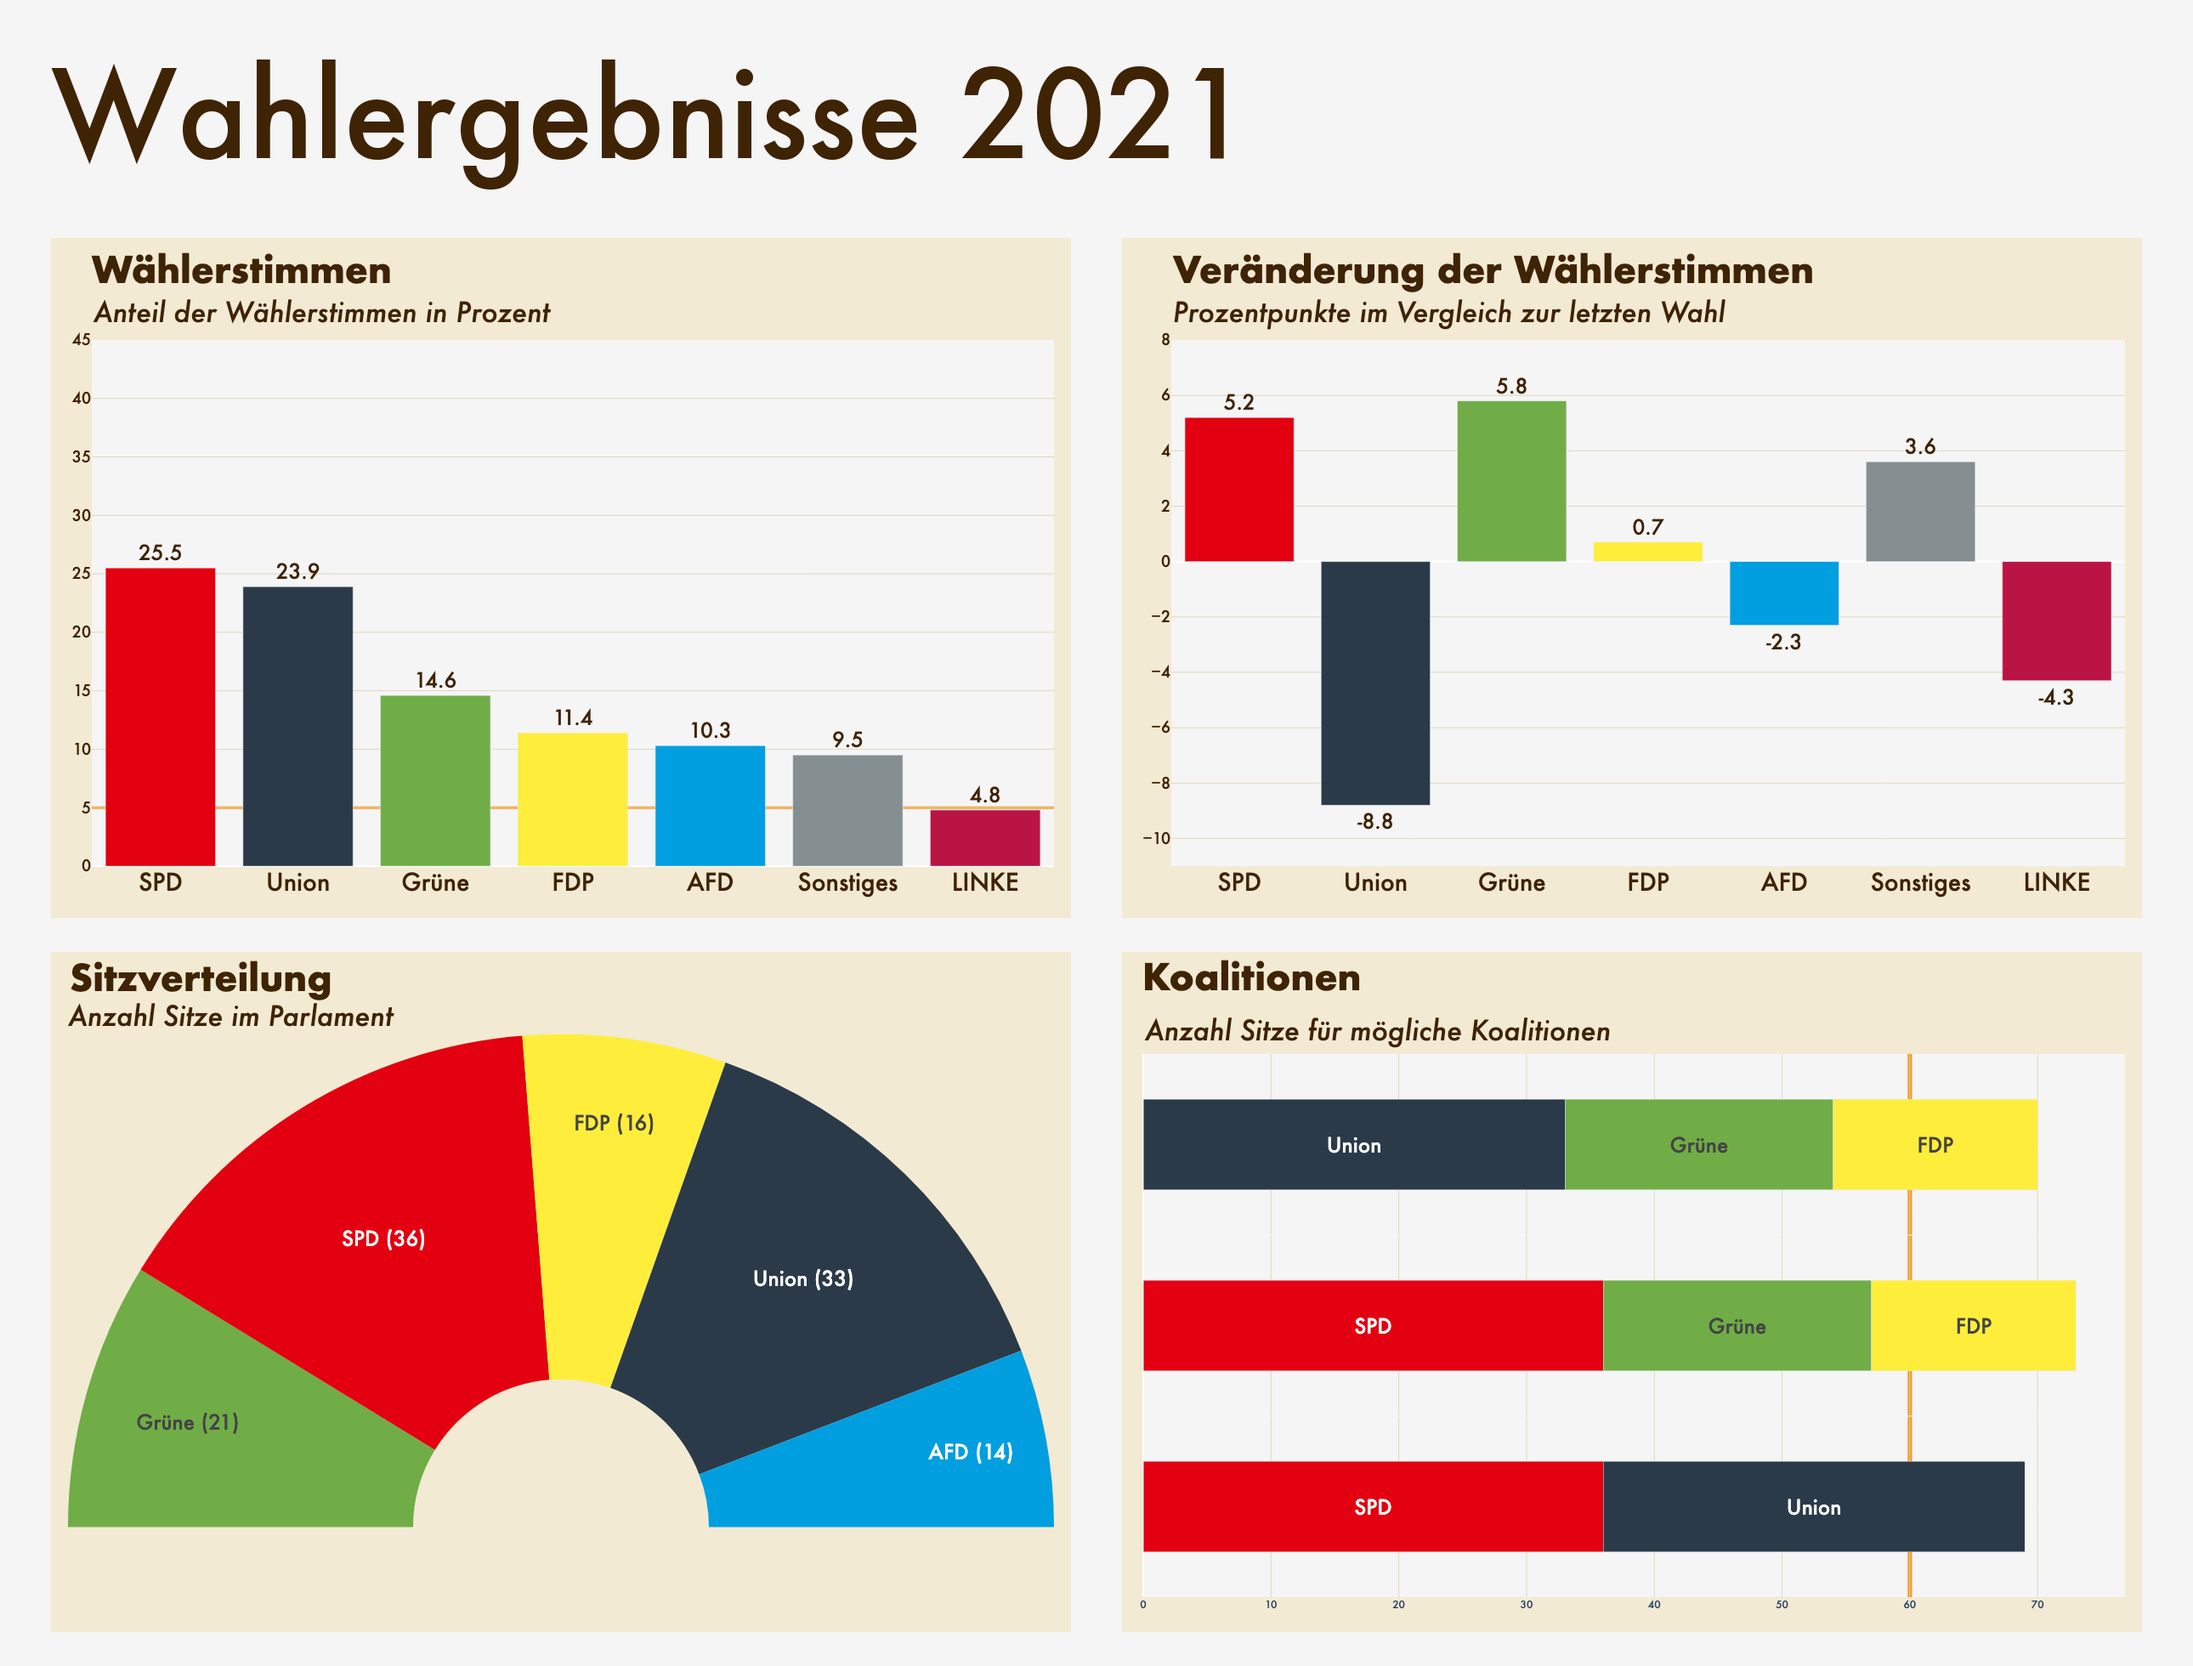
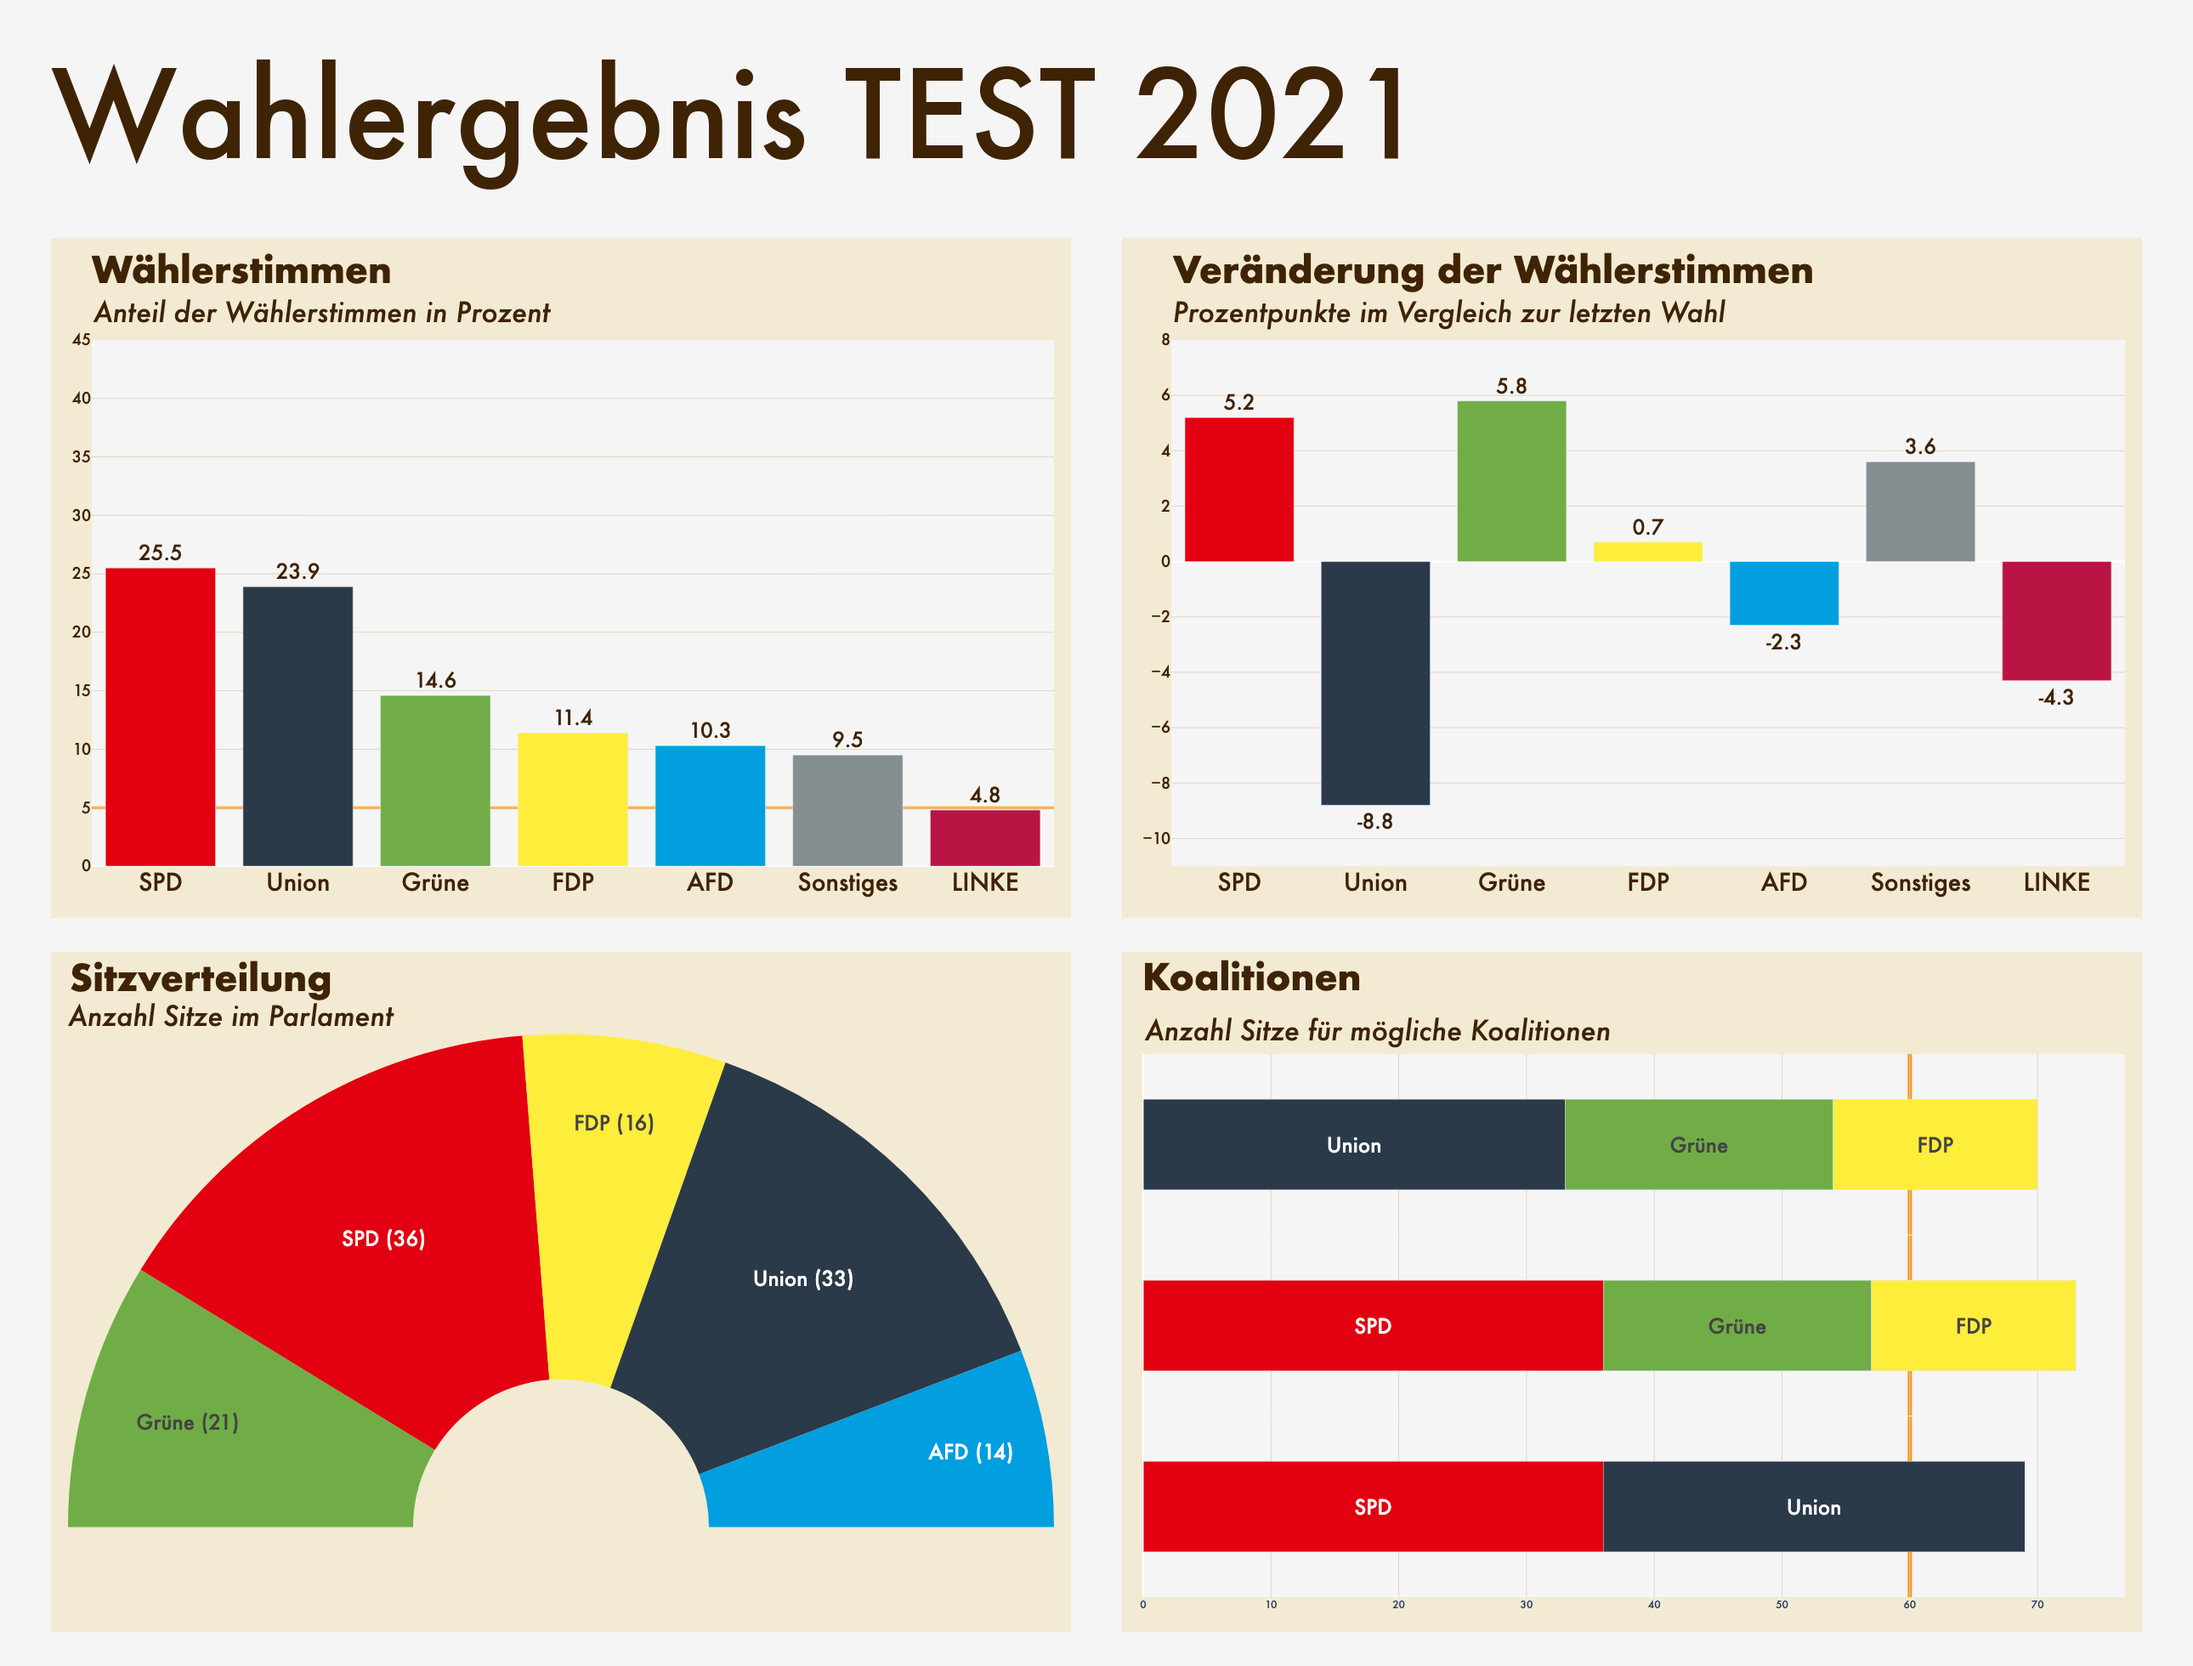
more_documentation

Changed region(s): [[0.3721, 0.0311, 0.6512, 0.0934]]

diff --git a/votingGraphPortfolio.py b/votingGraphPortfolio.py
@@ -1,37 +1,37 @@
-###########################################################
-# Class for processing voting data
-###########################################################
-import pandas as pd
 import os
 import numpy as np
 from itertools import combinations
+
+import pandas as pd
+
 import plotly.express as plotly
 import plotly.graph_objects as go
 from plotly.io import to_image
+
 from PIL import Image, ImageDraw, ImageFont
+
+##############################################################################################################################
+##############################################################################################################################
+##############################################################################################################################
 
 
 class VotingGraphs:
     def __init__(
         self,
+        # mandatory input variables
         csvFile,
         columnYear,
         columnVotings,
         columnParty,
         columnSpectrum,
         columnColor,
-        parliamentSeats,
-
-
-        excludeParties=["Sonstiges", "Sonstige",
-                        "Sonstige Parteien", "Sonstige Partei", "other", "others", "Others", "Others parties", "Others party", "Others Parties", "Others Party"],
     ):
 
         ###########################################################
         # Input Variables
         ###########################################################
-        self.seperator = ";",
-        self.parliamentSeats = parliamentSeats
+        self.seperator = ";"
+        self.parliamentSeats = 120
         self.columnYear = columnYear
         self.columnParty = columnParty
         self.columnSpectrum = columnSpectrum
@@ -39,9 +39,8 @@ class VotingGraphs:
         self.percentageLimit = 5
         self.width = 1200
         self.height = 800
-        self.excludeParties = excludeParties
-        self.yearsInDataFrame = sorted(
-            self.dataFrame[self.columnYear].unique())
+        self.excludeParties = ["Sonstiges", "Sonstige",
+                               "Sonstige Parteien", "Sonstige Partei", "other", "others", "Others", "Others parties", "Others party", "Others Parties", "Others Party"]
 
         ###########################################################
         # Styling Variable
@@ -95,6 +94,8 @@ class VotingGraphs:
         ###########################################################
         # read the csv and create the base dataFrame
         self.dataFrame = pd.read_csv(csvFile, sep=self.seperator)
+        self.yearsInDataFrame = sorted(
+            self.dataFrame[self.columnYear].unique())
 
         # calculate the total and relative votes for each year in dataFrame
         for year in self.yearsInDataFrame:
@@ -642,6 +643,7 @@ class VotingGraphs:
 ##############################################################################################################################
 #### createOnePager #########################################################################################################
 ##############################################################################################################################
+
 
     def createOnePager(self, year=None, outputfolder="output"):
 

diff --git a/example.py b/example.py
@@ -7,10 +7,9 @@ votingGraphs = VotingGraphs(
     "PARTY_SHORT",
     "PARTY_SPEC",
     "PARTY_COLOR",
-    120,
 )
-votingGraphs.getGraph(2021, "BAR_RESULT", "output/barResult.png",
-                      title="Wahlergebnis 2021 TEST", subtitle="Anteil der Wählerstimmen in Prozent")
+# votingGraphs.getGraph(2021, "BAR_RESULT", "output/barResult.png",
+#                      title="Wahlergebnis 2021 TEST", subtitle="Anteil der Wählerstimmen in Prozent")
 # votingData.getGraph(2021, "BAR_DIFFERENCE", "output/barDifference.png",
 #                    title="Wahlergebnis 2021", subtitle="Prozentpunkte im Vergleich zur letzten Wahl")
 # votingData.getGraph(2021, "PARLIAMENT", "output/pieParliament.png",
@@ -18,4 +17,5 @@ votingGraphs.getGraph(2021, "BAR_RESULT", "output/barResult.png",
 # votingData.getGraph(2021, "COALITIONS", "output/barCoalition.png",
 #                    title="Wahlergebnis 2021", subtitle="Anzahl Sitze für mögliche Koalitionen")
 
+votingGraphs.titleMain = "Wahlergebnis TEST"
 votingGraphs.createOnePager()

diff --git a/readme.md b/readme.md
@@ -12,10 +12,32 @@ This tool is loosly based on german elections. Some rulesets may differ from the
 ![Example Chart](https://github.com/ricochan/VotingGraphPortfolio/blob/main/output/ElectionResults_2021.png "Example Chart")
 
 ## VotingGraphs
+´´´´python
+from votingGraphPortfolio import VotingGraphs
+
+votingGraphs = VotingGraphs(
+    "data/exampleData.csv",
+    "YEAR",
+    "VOTINGS",
+    "PARTY_SHORT",
+    "PARTY_SPEC",
+    "PARTY_COLOR",
+)
+´´´
+
+
 ### mandatory 
 `csvFile` = *(str)* csv file to read in
 
 `columnYear` = *(str)* name of column in csv in which the year is recorded
+
+`columnVotings` = *(str)* name of column in csv in which the absolute number of votings per party is recorded
+
+`columnParty` = *(str)* name of column in csv in which party name is recorded 
+
+`columnSpectrum` = *(str)* name of column in csv in which the political orientation of the party is recorded
+
+`columnColor` = *(str)* name of column in csv in which the color code of the party is recorded
 
 ### optional
 
